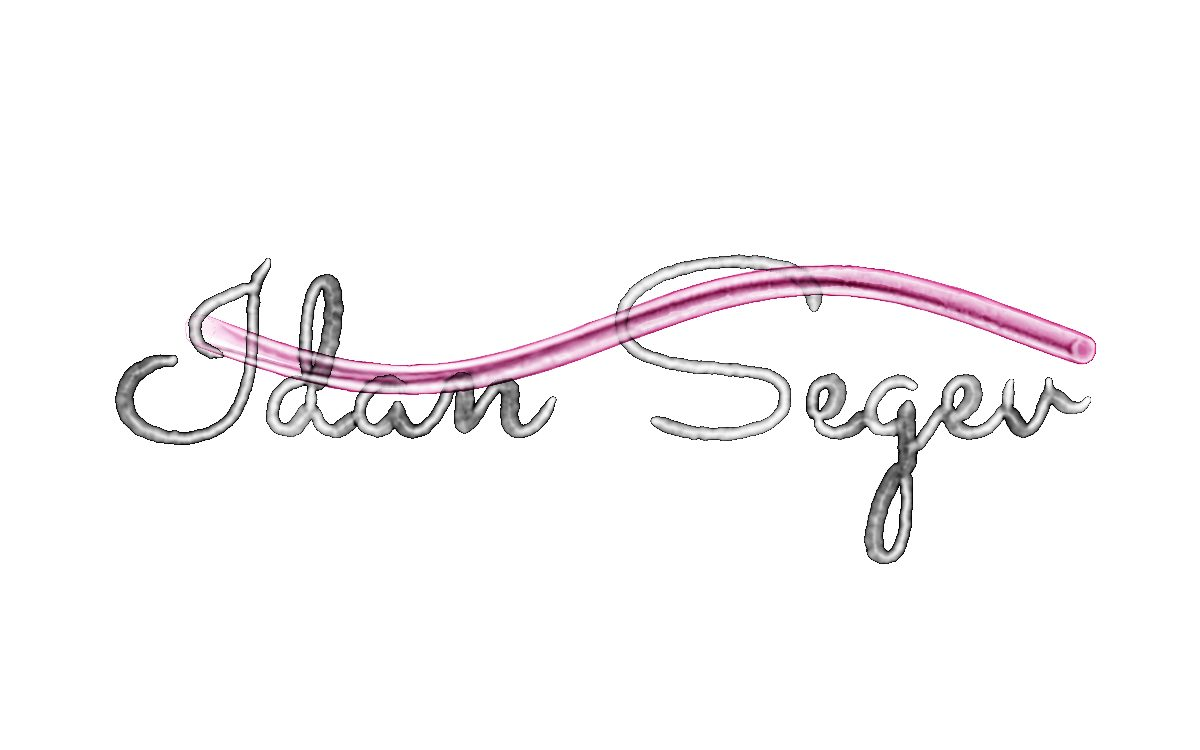
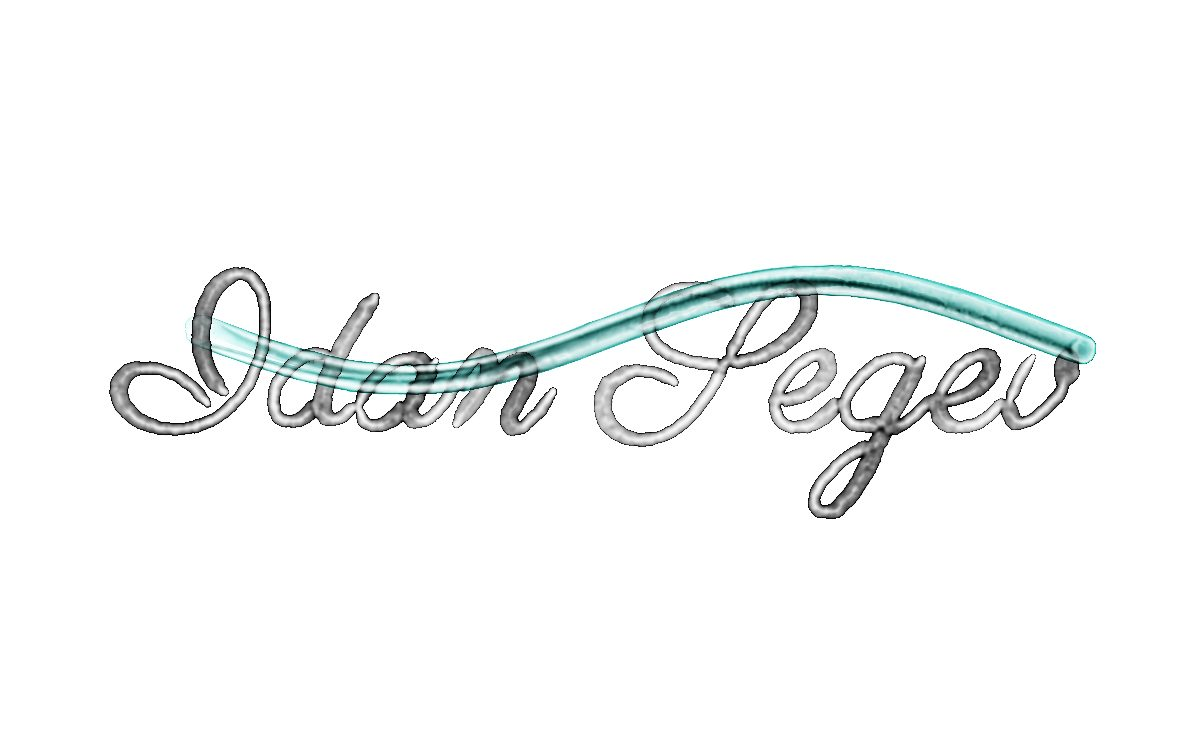
Wash script: Idan's ten faces from the face catalog
Parisienne, WindSong, Dancing Script, Mr Dafoe, Comforter, Zeyada, Nothing
You Could Do, Reenie Beanie, Caveat, Gloria Hallelujah, in his order. Adds
the catalog page (51 faces, each drawn as the brush's centre line) and
debug.face(n). Menu preview redone on Parisienne.

Changed region(s): [[0.0925, 0.3373, 0.925, 0.7667]]

diff --git a/docs/posters/prototypes/wash-script-faces.html b/docs/posters/prototypes/wash-script-faces.html
@@ -1,0 +1,213 @@
+<title>Wash script faces</title>
+<meta name="claude:viewport-fit-sides" content="cover">
+<link rel="stylesheet" href="https://fonts.googleapis.com/css2?family=IBM+Plex+Mono:wght@400;500&display=swap">
+<style>
+/* Layout: a contact sheet of faces, one card each, showing the brush line Wash script would write; a picking bar at the foot. */
+:root {
+  --bg: #ffffff; --ink: #000000; --dim: #707070; --line: rgba(0, 0, 0, 0.12); --ghost: rgba(0, 0, 0, 0.09); --card: #ffffff; --bar: rgba(255, 255, 255, 0.96);
+  --mono: "IBM Plex Mono", ui-monospace, Menlo, monospace;
+}
+@media (prefers-color-scheme: dark) { :root:not([data-theme="light"]) { --bg: #000000; --ink: #ffffff; --dim: #8c8c8c; --line: rgba(255, 255, 255, 0.16); --ghost: rgba(255, 255, 255, 0.1); --card: #000000; --bar: rgba(8, 8, 8, 0.96); color-scheme: dark; } }
+:root[data-theme="dark"] { --bg: #000000; --ink: #ffffff; --dim: #8c8c8c; --line: rgba(255, 255, 255, 0.16); --ghost: rgba(255, 255, 255, 0.1); --card: #000000; --bar: rgba(8, 8, 8, 0.96); color-scheme: dark; }
+body {
+  background: var(--bg); color: var(--ink); font: 400 12px/1.45 var(--mono); margin: 0;
+  padding-left: max(16px, env(safe-area-inset-left, 0px)); padding-right: max(16px, env(safe-area-inset-right, 0px)); padding-block: 28px 96px;
+}
+header { display: grid; gap: 6px; max-width: 70ch; margin-bottom: 22px; }
+h1 { font: 500 13px/1.3 var(--mono); margin: 0; letter-spacing: 0.02em; }
+header p { margin: 0; color: var(--dim); }
+.tools { display: flex; flex-wrap: wrap; gap: 8px 18px; align-items: baseline; margin-bottom: 18px; color: var(--dim); }
+.tools button[aria-pressed="true"] { color: var(--ink); text-decoration: underline; text-underline-offset: 3px; }
+button { font: inherit; color: var(--dim); background: none; border: 0; padding: 6px 0; cursor: pointer; }
+button:hover { color: var(--ink); }
+button:focus-visible, input:focus-visible { outline: 2px solid var(--ink); outline-offset: 2px; }
+section { margin-bottom: 30px; }
+h2 { font: 500 11px/1.3 var(--mono); text-transform: uppercase; letter-spacing: 0.08em; color: var(--dim); margin: 0 0 10px; }
+.grid { display: grid; grid-template-columns: repeat(auto-fill, minmax(min(100%, 320px), 1fr)); border-top: 1px solid var(--line); border-left: 1px solid var(--line); }
+.card { background: var(--card); border-right: 1px solid var(--line); border-bottom: 1px solid var(--line); display: grid; grid-template-rows: auto auto; cursor: pointer; position: relative; min-width: 0; }
+.card canvas { width: 100%; aspect-ratio: 3 / 1; display: block; }
+.meta { display: flex; justify-content: space-between; align-items: baseline; gap: 10px; padding: 8px 12px 10px; border-top: 1px solid var(--line); }
+.meta label { display: flex; gap: 8px; align-items: baseline; cursor: pointer; min-width: 0; }
+.meta input { accent-color: var(--ink); width: 14px; height: 14px; margin: 0; transform: translateY(2px); }
+.meta .name { overflow: hidden; text-overflow: ellipsis; white-space: nowrap; }
+.meta .tag { color: var(--dim); white-space: nowrap; }
+.card.picked { outline: 2px solid var(--ink); outline-offset: -2px; z-index: 1; }
+.card .na { position: absolute; inset: 0 0 auto; aspect-ratio: 3 / 1; display: grid; place-items: center; color: var(--dim); }
+.bar {
+  position: fixed; left: 0; right: 0; bottom: 0; display: flex; flex-wrap: wrap; gap: 6px 18px; align-items: baseline; justify-content: space-between;
+  padding: 12px max(16px, env(safe-area-inset-right, 0px)) calc(12px + env(safe-area-inset-bottom, 0px)) max(16px, env(safe-area-inset-left, 0px));
+  background: var(--bar); border-top: 1px solid var(--line);
+}
+.bar .picks { min-width: 0; overflow: hidden; text-overflow: ellipsis; white-space: nowrap; flex: 1 1 280px; }
+.bar .acts { display: flex; gap: 18px; }
+</style>
+
+<header>
+  <h1>Wash script · faces</h1>
+  <p>Each card shows the line the brush would follow: the face drawn, then thinned to its centre line, as the poster does. Weight and contrast disappear in the thinning, so judge the shape of the line, not the type. Tap a card to pick it; the six in use now are marked.</p>
+</header>
+<div class="tools" role="group" aria-label="View">
+  <span>Show</span>
+  <button type="button" id="vLine" aria-pressed="true">Brush line</button>
+  <button type="button" id="vFace" aria-pressed="false">Face</button>
+  <button type="button" id="vBoth" aria-pressed="false">Both</button>
+</div>
+<main id="list"></main>
+<div class="bar"><span class="picks" id="picks">Nothing picked yet</span><span class="acts"><button type="button" id="clear">Clear</button><button type="button" id="copy">Copy picks</button></span></div>
+
+<script>
+(() => {
+  // the faces, grouped; every one is on Google Fonts. `use` marks the six the poster writes in today.
+  const GROUPS = [
+    ['Formal script', ['Sacramento', 'Great Vibes', 'Allura', 'Parisienne', 'Pinyon Script', 'Alex Brush', 'Tangerine', 'Italianno', 'Rouge Script', 'Arizonia', 'Monsieur La Doulaise', 'Mrs Saint Delafield', 'Herr Von Muellerhoff', 'Petit Formal Script', 'Imperial Script', 'Corinthia', 'Ephesis', 'Birthstone', 'Allison', 'WindSong', 'Lovers Quarrel', 'Ms Madi']],
+    ['Casual and brush', ['Dancing Script', 'Satisfy', 'Yellowtail', 'Mr Dafoe', 'Kaushan Script', 'Cookie', 'Damion', 'Pacifico', 'Yesteryear', 'Hurricane', 'Water Brush', 'Comforter', 'Send Flowers', 'Ballet']],
+    ['Monoline handwriting', ['Cedarville Cursive', 'Homemade Apple', 'La Belle Aurore', 'Dawning of a New Day', 'Zeyada', 'Over the Rainbow', 'Mrs Sheppards', 'Waiting for the Sunrise', 'Nothing You Could Do', 'Meddon', 'Shadows Into Light', 'Indie Flower', 'Reenie Beanie', 'Caveat', 'Gloria Hallelujah']],
+  ];
+  const IN_USE = ['Sacramento', 'Great Vibes', 'Allura', 'Parisienne', 'Pinyon Script', 'Dancing Script'];
+  const NAME = 'Idan Segev';
+  const ALL = GROUPS.flatMap((g) => g[1]);
+  const LW = 1200, LH = 400;                                         // the size the centre line is found at (the poster's name is about 900 px wide)
+  const $ = (id) => document.getElementById(id);
+
+  // one stylesheet for all of them, only the letters of the name
+  const l = document.createElement('link'); l.rel = 'stylesheet';
+  l.href = 'https://fonts.googleapis.com/css2?' + ALL.map((f) => 'family=' + f.replace(/ /g, '+')).join('&') + '&text=' + encodeURIComponent('IdanSegv') + '&display=block';
+  const sheet = new Promise((r) => { l.onload = r; l.onerror = r; setTimeout(r, 4000); document.head.appendChild(l); });
+
+  let picks = [];
+  try { picks = JSON.parse(localStorage.getItem('wash-faces') || 'null') || IN_USE.slice(); } catch (e) { picks = IN_USE.slice(); }
+  const save = () => { try { localStorage.setItem('wash-faces', JSON.stringify(picks)); } catch (e) { /* fine */ } };
+  let view = 'line';
+
+  // ---------- the centre line: render, thin (Zhang-Suen), walk into strokes, as src/posters/wash-script.js does ----------
+  function centreLine(family, w, h) {
+    const m = document.createElement('canvas'); m.width = w; m.height = h;
+    const x = m.getContext('2d', { willReadFrequently: true }), font = (px) => `400 ${px}px "${family}"`;
+    x.font = font(100); const wd = x.measureText(NAME).width;
+    const size = Math.min(w * 0.84 / wd * 100, h * 0.5);
+    x.font = font(size); x.textAlign = 'center'; x.textBaseline = 'middle'; x.fillStyle = '#000';
+    x.fillText(NAME, w / 2, h / 2);
+    const d = x.getImageData(0, 0, w, h).data, img = new Uint8Array(w * h);
+    for (let i = 0; i < w * h; i++) img[i] = d[i * 4 + 3] > 36 ? 1 : 0;
+    for (let changed = true; changed;) {
+      changed = false;
+      for (let pass = 0; pass < 2; pass++) {
+        const del = [];
+        for (let py = 1; py < h - 1; py++) for (let px = 1; px < w - 1; px++) {
+          const i = py * w + px; if (!img[i]) continue;
+          const p2 = img[i - w], p3 = img[i - w + 1], p4 = img[i + 1], p5 = img[i + w + 1], p6 = img[i + w], p7 = img[i + w - 1], p8 = img[i - 1], p9 = img[i - w - 1];
+          const B = p2 + p3 + p4 + p5 + p6 + p7 + p8 + p9; if (B < 2 || B > 6) continue;
+          const A = (!p2 && p3) + (!p3 && p4) + (!p4 && p5) + (!p5 && p6) + (!p6 && p7) + (!p7 && p8) + (!p8 && p9) + (!p9 && p2); if (A !== 1) continue;
+          if (pass === 0 ? (p2 && p4 && p6) || (p4 && p6 && p8) : (p2 && p4 && p8) || (p2 && p6 && p8)) continue;
+          del.push(i);
+        }
+        for (const i of del) img[i] = 0; if (del.length) changed = true;
+      }
+    }
+    const N8 = [-w - 1, -w, -w + 1, -1, 1, w - 1, w, w + 1], DX = [-1, 0, 1, -1, 1, -1, 0, 1], DY = [-1, -1, -1, 0, 0, 1, 1, 1];
+    const used = new Uint8Array(w * h), pix = [];
+    for (let i = 0; i < w * h; i++) if (img[i]) pix.push(i);
+    const free = (i) => { const r = []; for (let k = 0; k < 8; k++) { const j = i + N8[k]; if (img[j] && !used[j]) r.push(k); } return r; };
+    const strokes = [];
+    for (;;) {
+      let start = -1, bx = Infinity;
+      for (const i of pix) if (!used[i] && free(i).length <= 1 && i % w < bx) { bx = i % w; start = i; }
+      if (start < 0) for (const i of pix) if (!used[i]) { start = i; break; }
+      if (start < 0) break;
+      const path = [start]; used[start] = 1; let cur = start, dx = 0, dy = 0;
+      for (;;) {
+        const fr = free(cur); if (!fr.length) break;
+        let best = fr[0], bs = -9;
+        for (const k of fr) { const sc = (DX[k] * dx + DY[k] * dy) / Math.hypot(DX[k], DY[k]); if (sc > bs) { bs = sc; best = k; } }
+        for (const k of fr) used[cur + N8[k]] = 1;
+        dx = dx * 0.6 + DX[best] * 0.4; dy = dy * 0.6 + DY[best] * 0.4;
+        cur += N8[best]; path.push(cur); used[cur] = 1;
+      }
+      if (path.length >= 6) {
+        let q = path.map((i) => [i % w, (i / w) | 0]);
+        for (let it = 0; it < 3; it++) q = q.map((p, k) => (k === 0 || k === q.length - 1 ? p : [(q[k - 1][0] + 2 * p[0] + q[k + 1][0]) / 4, (q[k - 1][1] + 2 * p[1] + q[k + 1][1]) / 4]));
+        strokes.push(q);
+      }
+    }
+    return { strokes, size };
+  }
+
+  // ---------- cards ----------
+  const cards = [];
+  function build() {
+    const list = $('list');
+    for (const [group, fams] of GROUPS) {
+      const sec = document.createElement('section'), h = document.createElement('h2'), grid = document.createElement('div');
+      h.textContent = `${group} · ${fams.length}`; grid.className = 'grid'; sec.append(h, grid); list.append(sec);
+      for (const fam of fams) {
+        const id = 'f-' + fam.toLowerCase().replace(/[^a-z]+/g, '-');
+        const card = document.createElement('div'); card.className = 'card';
+        card.innerHTML = `<canvas aria-hidden="true"></canvas><div class="meta"><label for="${id}"><input type="checkbox" id="${id}"><span class="name"></span></label><span class="tag"></span></div>`;
+        card.querySelector('.name').textContent = fam;
+        card.querySelector('.tag').textContent = IN_USE.includes(fam) ? 'in use' : '';
+        const box = card.querySelector('input');
+        box.checked = picks.includes(fam); card.classList.toggle('picked', box.checked);
+        box.addEventListener('change', () => toggle(fam, box.checked));
+        card.addEventListener('click', (e) => { if (e.target.closest('label')) return; box.checked = !box.checked; toggle(fam, box.checked); });
+        grid.append(card);
+        cards.push({ fam, card, box, cv: card.querySelector('canvas'), line: null });
+      }
+    }
+  }
+  function toggle(fam, on) {
+    picks = picks.filter((f) => f !== fam); if (on) picks.push(fam);
+    const c = cards.find((x) => x.fam === fam); c.card.classList.toggle('picked', on); c.box.checked = on;
+    save(); bar();
+  }
+  function bar() {
+    const ordered = ALL.filter((f) => picks.includes(f));
+    $('picks').textContent = ordered.length ? `${ordered.length} picked · ${ordered.join(', ')}` : 'Nothing picked yet';
+  }
+
+  // ---------- drawing ----------
+  const css = (n) => getComputedStyle(document.documentElement).getPropertyValue(n).trim();
+  function paint(c) {
+    const r = c.cv.getBoundingClientRect(), dpr = Math.min(2, devicePixelRatio || 1);
+    const w = Math.max(60, Math.round(r.width)), h = Math.max(20, Math.round(r.height));
+    c.cv.width = w * dpr; c.cv.height = h * dpr;
+    const x = c.cv.getContext('2d'); x.setTransform(dpr, 0, 0, dpr, 0, 0); x.clearRect(0, 0, w, h);
+    if (!document.fonts.check(`400 40px "${c.fam}"`, NAME)) {
+      x.fillStyle = css('--dim'); x.font = '12px ' + css('--mono'); x.textAlign = 'center'; x.textBaseline = 'middle'; x.fillText('did not load', w / 2, h / 2); return;
+    }
+    if (!c.line) c.line = centreLine(c.fam, LW, LH);                 // at poster size, so hairlines survive the thinning, then scaled to the card
+    const k = w / LW;
+    if (view !== 'line') {
+      x.font = `400 ${c.line.size * k}px "${c.fam}"`; x.textAlign = 'center'; x.textBaseline = 'middle';
+      x.fillStyle = view === 'both' ? css('--ghost') : css('--ink'); x.fillText(NAME, w / 2, h / 2);
+    }
+    if (view !== 'face') {
+      // the brush, at the poster's tuned width scaled to the card (8.5 px on a name about 900 px wide)
+      x.strokeStyle = css('--ink'); x.lineCap = 'round'; x.lineJoin = 'round'; x.lineWidth = Math.max(1.6, w * 0.0095);
+      x.save(); x.scale(k, k); x.lineWidth /= k;
+      for (const st of c.line.strokes) { x.beginPath(); x.moveTo(st[0][0], st[0][1]); for (const p of st) x.lineTo(p[0], p[1]); x.stroke(); }
+      x.restore();
+    }
+  }
+  async function paintAll() {
+    for (const c of cards) { paint(c); await new Promise((r) => requestAnimationFrame(r)); }
+  }
+
+  // ---------- controls ----------
+  const setView = (v) => { view = v; for (const [id, k] of [['vLine', 'line'], ['vFace', 'face'], ['vBoth', 'both']]) $(id).setAttribute('aria-pressed', String(k === v)); cards.forEach(paint); };
+  $('vLine').addEventListener('click', () => setView('line'));
+  $('vFace').addEventListener('click', () => setView('face'));
+  $('vBoth').addEventListener('click', () => setView('both'));
+  $('clear').addEventListener('click', () => { picks = []; cards.forEach((c) => { c.box.checked = false; c.card.classList.remove('picked'); }); save(); bar(); });
+  $('copy').addEventListener('click', () => {
+    const txt = ALL.filter((f) => picks.includes(f)).join(', ');
+    navigator.clipboard.writeText(txt).then(() => { $('copy').textContent = 'Copied'; setTimeout(() => ($('copy').textContent = 'Copy picks'), 1200); })
+      .catch(() => { const s = getSelection(), rg = document.createRange(); rg.selectNodeContents($('picks')); s.removeAllRanges(); s.addRange(rg); });
+  });
+  matchMedia('(prefers-color-scheme: dark)').addEventListener('change', () => cards.forEach(paint));
+  new MutationObserver(() => cards.forEach(paint)).observe(document.documentElement, { attributes: true, attributeFilter: ['data-theme'] });
+  let rz = 0; addEventListener('resize', () => { clearTimeout(rz); rz = setTimeout(() => cards.forEach(paint), 250); });
+
+  build(); bar();
+  sheet.then(() => Promise.all(ALL.map((f) => Promise.race([document.fonts.load(`400 40px "${f}"`, NAME), new Promise((r) => setTimeout(r, 4000))]).catch(() => {})))).then(paintAll);
+})();
+</script>

diff --git a/src/posters/wash-script.js b/src/posters/wash-script.js
@@ -19,13 +19,17 @@ import { createReveal, grid, corners, titleBlock, ink as rvInk } from './reveal.
 import { pressTracker, DOUBLE_MS, REFORM_DELAY_MS } from '../gestures.js';
 
 const DEF = { brush: 8.5, speed: 650, water: 0.9, pigment: 0.86, bleed: 0.095, rim: 1.5, dry: 1.2, gran: 0.68, reach: 0.9, lift: 0.013, colour: true, colourAmt: 0.7, newFace: true };   // Idan's tuned values, 24 Oct 2026
-const FACES = [
-  { family: 'Sacramento', weight: 400, size: 1.12 },
-  { family: 'Great Vibes', weight: 400, size: 1.0 },
-  { family: 'Allura', weight: 400, size: 1.05 },
-  { family: 'Parisienne', weight: 400, size: 0.95 },
-  { family: 'Pinyon Script', weight: 400, size: 0.9 },
-  { family: 'Dancing Script', weight: 400, size: 0.95 },
+const FACES = [                                                  // Idan's picks from the face catalog, 24 Oct 2026, in his order
+  { family: 'Parisienne', weight: 400, size: 1 },
+  { family: 'WindSong', weight: 400, size: 1 },
+  { family: 'Dancing Script', weight: 400, size: 1 },
+  { family: 'Mr Dafoe', weight: 400, size: 1 },
+  { family: 'Comforter', weight: 400, size: 1 },
+  { family: 'Zeyada', weight: 400, size: 1 },
+  { family: 'Nothing You Could Do', weight: 400, size: 1 },
+  { family: 'Reenie Beanie', weight: 400, size: 1 },
+  { family: 'Caveat', weight: 400, size: 1 },
+  { family: 'Gloria Hallelujah', weight: 400, size: 1 },
 ];
 const PAL = { dark: ['#2ee6ff', '#6fe0a0', '#d4f01a', '#ff4fe0', '#ff5a9a', '#ff6b5e'], light: ['#0a7fb5', '#0f9d8a', '#4a9a1a', '#c2185b', '#e0455a', '#e8652e'] };
 const SUB = 3;
@@ -427,7 +431,7 @@ export async function mount(stage) {
 
   return {
     tune,
-    debug: { P, get writing() { return writing; }, get steps() { return steps; }, blot: () => { blotting = 34; } },
+    debug: { P, face: (n) => { face = ((n % FACES.length) + FACES.length) % FACES.length; return build(false); }, get faceName() { return FACES[face].family; }, get writing() { return writing; }, get steps() { return steps; }, blot: () => { blotting = 34; } },
     destroy() {
       alive = false; timers.forEach(clearTimeout); clearTimeout(reformT); rv.destroy(); offs.forEach((f) => f());
       free(); for (const p of [pVel, pState, pDraw]) gl.deleteProgram(p.p); shaders.forEach((s) => gl.deleteShader(s)); gl.deleteBuffer(vb);

diff --git a/src/posters/index.js b/src/posters/index.js
@@ -279,7 +279,7 @@ export const POSTERS = [
     themes: { dark: 0.5, light: 0.5 },
     draft: true,
     load: () => import('./wash-script.js'),
-    prompt: "The name \"Idan Segev\" written by a wet brush in black watercolour, with WebGL2. Render the name in a script face (Sacramento), thin it to a one-pixel centre line (Zhang-Suen) and walk that into strokes; a brush follows them in reading order, pressing in at the start of each stroke and heavier on downstrokes. The paper is a GPU simulation with ping-pong float textures: water, ink floating in the water, ink settled into the paper. Water bleeds into dry paper where a paper-fibre noise lets it; floating ink flows to shallower water (a conservative flux between neighbours) so strokes dry with a dark rim and a pale middle; ink settles more in the paper's valleys (granulation). The visitor's finger is a brush of clear water carrying a colour (stored as absorbance per channel so it mixes like paint): it lifts the ink, drags it along and dries with its own rim. Hold to flood; double tap to blot and write it again in another script.",
+    prompt: "The name \"Idan Segev\" written by a wet brush in black watercolour, with WebGL2. Render the name in a script or handwriting face (Parisienne), thin it to a one-pixel centre line (Zhang-Suen) and walk that into strokes; a brush follows them in reading order, pressing in at the start of each stroke and heavier on downstrokes. The paper is a GPU simulation with ping-pong float textures: water, ink floating in the water, ink settled into the paper. Water bleeds into dry paper where a paper-fibre noise lets it; floating ink flows to shallower water (a conservative flux between neighbours) so strokes dry with a dark rim and a pale middle; ink settles more in the paper's valleys (granulation). The visitor's finger is a brush of clear water carrying a colour (stored as absorbance per channel so it mixes like paint): it lifts the ink, drags it along and dries with its own rim. Hold to flood; double tap to blot and write it again in another script.",
   },
   {
     slug: 'brandbook',

diff --git a/docs/posters/prototypes/wash-script.html b/docs/posters/prototypes/wash-script.html
@@ -1,6 +1,6 @@
 <title>Wash script</title>
 <meta name="claude:viewport-fit-sides" content="cover">
-<link rel="stylesheet" href="https://fonts.googleapis.com/css2?family=IBM+Plex+Mono:wght@400;500&family=Sacramento&family=Great+Vibes&family=Allura&family=Parisienne&family=Pinyon+Script&family=Dancing+Script:wght@400&display=swap">
+<link rel="stylesheet" href="https://fonts.googleapis.com/css2?family=IBM+Plex+Mono:wght@400;500&family=Parisienne&family=WindSong&family=Dancing+Script&family=Mr+Dafoe&family=Comforter&family=Zeyada&family=Nothing+You+Could+Do&family=Reenie+Beanie&family=Caveat&family=Gloria+Hallelujah&display=swap">
 <style>
 /* Layout: the page is wet paper; a brush writes the name along the centre line of a script face. A quiet foot line and a test-only settings sheet. */
 :root {
@@ -237,13 +237,17 @@ button:focus-visible, input:focus-visible { outline: 2px solid var(--ink); outli
   let brushColour = [0, 0, 0];
 
   // ---------- the name's centre line ----------
-  const FACES = [
-    { family: 'Sacramento', weight: 400, size: 1.12 },
-    { family: 'Great Vibes', weight: 400, size: 1.0 },
-    { family: 'Allura', weight: 400, size: 1.05 },
-    { family: 'Parisienne', weight: 400, size: 0.95 },
-    { family: 'Pinyon Script', weight: 400, size: 0.9 },
-    { family: 'Dancing Script', weight: 400, size: 0.95 },
+  const FACES = [                                                  // Idan's picks from the face catalog, 24 Oct 2026, in his order
+    { family: 'Parisienne', weight: 400, size: 1 },
+    { family: 'WindSong', weight: 400, size: 1 },
+    { family: 'Dancing Script', weight: 400, size: 1 },
+    { family: 'Mr Dafoe', weight: 400, size: 1 },
+    { family: 'Comforter', weight: 400, size: 1 },
+    { family: 'Zeyada', weight: 400, size: 1 },
+    { family: 'Nothing You Could Do', weight: 400, size: 1 },
+    { family: 'Reenie Beanie', weight: 400, size: 1 },
+    { family: 'Caveat', weight: 400, size: 1 },
+    { family: 'Gloria Hallelujah', weight: 400, size: 1 },
   ];
   let face = 0, W = 1, H = 1;
   async function fontStrokes(f) {

diff --git a/docs/posters/wash-script.md b/docs/posters/wash-script.md
@@ -25,3 +25,5 @@
 **Ported to the site as a draft (24 Oct 2026).** Idan: "Port Wash script into the site as a draft poster, keeping colour on the brush." `src/posters/wash-script.js`, registry row `wash-script` (`draft: true`, `colour: 'native'`). Drawn straight onto the stage canvas with WebGL 2, like Still Water. The faces load from Google Fonts with only the name's letters (`text=IdanSegv`). The paper only steps while something is wet (9 s after the last stroke), so nothing moves at rest; under reduced motion the name is written and dried in one go. Gestures from `gestures.js`: drag is your brush, hold floods, double tap blots and writes again (a beat later, so a third tap can still mean reveal). Reveal: the centre line the brush follows and where each stroke starts.
 
 **Open.** Colour is on every drag, which goes past the site's rule that colour is a rare easter egg (and the easter egg is switched off site-wide since 24 Oct): Idan's call at review. Not measured on a phone; the simulation is heavier than most posters (2.2 million cells at most, three steps a frame while wet). The writing takes about 8 s at the tuned speed. No self-demo beyond the writing.
+
+**Faces (24 Oct 2026).** Idan: "i dont like all the script fonts, can you put together a mini catalog i can pick and choose from?" Catalog: `docs/posters/prototypes/wash-script-faces.html` (private link https://claude.ai/artifact/54ks5tj2YHkmjFAEB2ejxx): 51 Google script and handwriting faces, each drawn as the centre line the brush would follow (found at poster size, so hairlines survive the thinning). His picks, in his order, are now the poster's faces: Parisienne, WindSong, Dancing Script, Mr Dafoe, Comforter, Zeyada, Nothing You Could Do, Reenie Beanie, Caveat, Gloria Hallelujah. All ten checked through the poster at 900 x 560; they load and fit. `debug.face(n)` jumps to a face.

diff --git a/docs/INTERACTIONS.md b/docs/INTERACTIONS.md
@@ -158,13 +158,13 @@ Hover the top-left corner and a quiet "Posters" appears (on a touch screen it is
 
 | | Wash script |
 |---|---|
-| Intro | a wet brush writes the name in black watercolour along the centre line of a script face, once on load; it dries with a darker rim |
+| Intro | a wet brush writes the name in black watercolour along the centre line of a script or handwriting face, once on load; it dries with a darker rim |
 | Drag | a brush of clear water with a colour on it: it lifts the ink and drags it along, the colour running into it; it dries with its own rim |
 | Touch | the same; one pointer |
 | Hold | floods: the brush grows and lays more water, so the ink spreads |
 | Double tap | blots it all up and writes it again in the next script face (a beat later, so a third tap can still mean reveal) |
 | Three taps (reveal) | page inverts; the centre line the brush follows and where each stroke starts |
-| Face | Sacramento, then Great Vibes, Allura, Parisienne, Pinyon Script, Dancing Script (Google Fonts, the name's letters only) |
+| Face | Parisienne, then WindSong, Dancing Script, Mr Dafoe, Comforter, Zeyada, Nothing You Could Do, Reenie Beanie, Caveat, Gloria Hallelujah: Idan's picks (Google Fonts, the name's letters only) |
 | Self-demo | none beyond the writing |
 | Reduced motion | the name is written and dried in one go; nothing moves until touched |
 | Colour | its own, on every drag (each press the next colour of the page's palette); the writing stays black |
